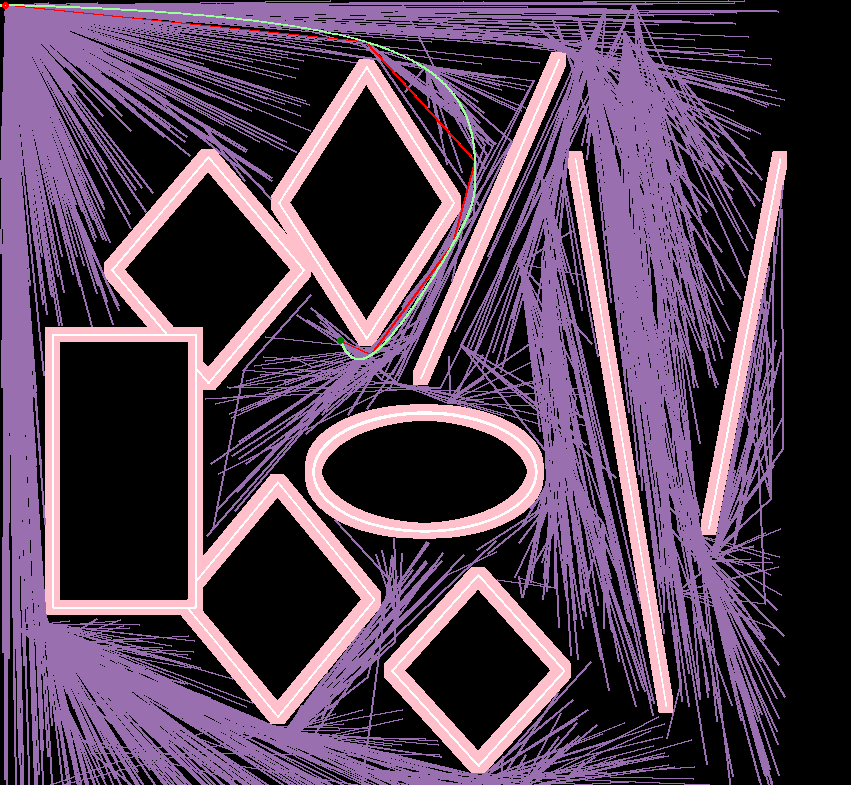
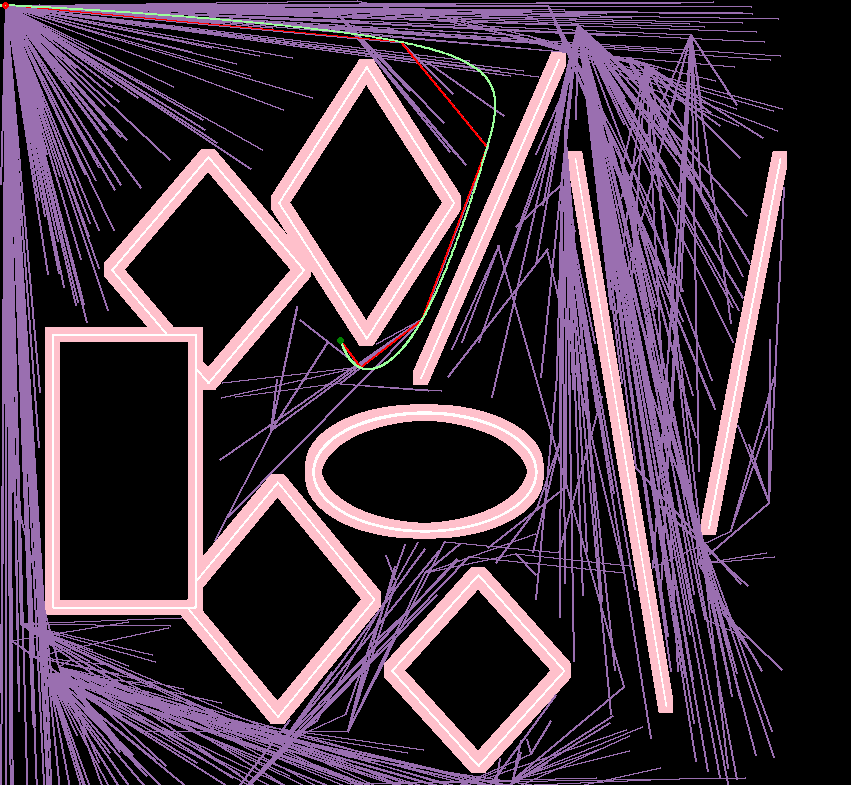
MPC kinda

Changed region(s): [[0.0, 0.0, 0.9471, 1.0], [0.9166, 0.2446, 0.9471, 0.2752], [0.3972, 0.6726, 0.4277, 0.7032]]

diff --git a/main.py b/main.py
@@ -36,28 +36,51 @@ global_path = algo_options[config.algo](
 for i in range(len(global_path)):
     global_path[i] = (global_path[i][0], global_path[i][1], 0, 0)
 
-global_path = waypoints_gen(global_path, 40)
-
-local_planner = LocalPlanner(.01, 10)
-local_path = []
+current_position = global_path[0]
+target_waypoint = global_path[1]
 
 render_local_path_on_image([], config.out_path, 'test.png')
 
-for i in range(len(global_path) - 1):
-    local_planner = LocalPlanner(.05, 4)
-    solution, state, u = local_planner.find_path(global_path[i], global_path[i + 1], [])
+while (current_position[0], current_position[1]) != (global_path[-1][0], global_path[-1][1]):
+    local_planner = LocalPlanner(.05, .25)
+    solution, state, u = local_planner.find_path(current_position, target_waypoint, [])
     path = local_planner.get_path_coords(solution, state)
-    global_path[i+1] = path[-1]
-    local_path.extend(path)
+    current_position = path[-1]
 
-    render_local_path_on_image(local_path, config.out_path, 'test.png')
+    if (current_position[0] - target_waypoint[0])**2 + (current_position[1] - target_waypoint[1])**2 < 10:
+        target_waypoint = global_path[global_path.index(target_waypoint) + 1]
+
+    render_local_path_on_image(path, 'test.png', 'test.png')
     if config.debug:
         imp = pygame.image.load('test.png').convert()
         screen.blit(imp, (0, 0))
         pygame.display.flip()
 
-print("Finished in:")
-print(f"{time.time() - start_time} seconds.")
-
-if config.debug:
-    x = input()
+# for i in range(len(global_path)):
+#     global_path[i] = (global_path[i][0], global_path[i][1], 0, 0)
+#
+# global_path = waypoints_gen(global_path, 40)
+#
+# local_planner = LocalPlanner(.01, .25)
+# local_path = []
+#
+# render_local_path_on_image([], config.out_path, 'test.png')
+#
+# for i in range(len(global_path) - 1):
+#     local_planner = LocalPlanner(.05, .25)
+#     solution, state, u = local_planner.find_path(global_path[i], global_path[i + 1], [])
+#     path = local_planner.get_path_coords(solution, state)
+#     global_path[i+1] = path[-1]
+#     local_path.extend(path)
+#
+#     render_local_path_on_image(local_path, config.out_path, 'test.png')
+#     if config.debug:
+#         imp = pygame.image.load('test.png').convert()
+#         screen.blit(imp, (0, 0))
+#         pygame.display.flip()
+#
+# print("Finished in:")
+# print(f"{time.time() - start_time} seconds.")
+#
+# if config.debug:
+#     x = input()

diff --git a/local_sim/path.py b/local_sim/path.py
@@ -26,6 +26,9 @@ class LocalPlanner:
             cost += (state[0, i] - end_state[0]) ** 2
             cost += (state[1, i] - end_state[1]) ** 2
 
+            # cost += (state[2, i] - end_state[2]) ** 2
+            # cost += (state[3, i] - end_state[3]) ** 2
+
         for i in range(self.N - 1):
             cost += u[0, i] ** 2
             cost += u[1, i] ** 2
@@ -48,8 +51,8 @@ class LocalPlanner:
         for i in range(4):
             self.optimizer.subject_to(state[i, 0] == start_state[i])
 
-        self.optimizer.subject_to(state[0, self.N - 1] == end_state[0])
-        self.optimizer.subject_to(state[1, self.N - 1] == end_state[1])
+        # self.optimizer.subject_to(state[0, self.N - 1] == end_state[0])
+        # self.optimizer.subject_to(state[1, self.N - 1] == end_state[1])
 
         # Apply velocity bounds
         for i in range(self.N):

diff --git a/config.py b/config.py
@@ -3,7 +3,7 @@ from type_hints.types import Node
 # Algorithm - rrt_star or rrt_sid
 algo: str = "rrt_sid"
 
-iters: int = 2000
+iters: int = 800
 start_node: Node = (5, 5)
 end_node: Node = (340, 340)
 initial_generate_dist: int = 50  # Sometimes, increasing leads to reaching farther areas
@@ -14,7 +14,7 @@ map_bw_reverse: bool = False  # Reverse black and white in obstacle readings
 display_end: bool = False  # Display final image when program finished
 
 # Debug
-debug: bool = False  # Run while program running
+debug: bool = True  # Run while program running
 debug_time: float = 0  # Time to wait after every frame displayed in seconds
 debug_iters: int = 50  # Display frame ever 'debug_iters' iters
 
